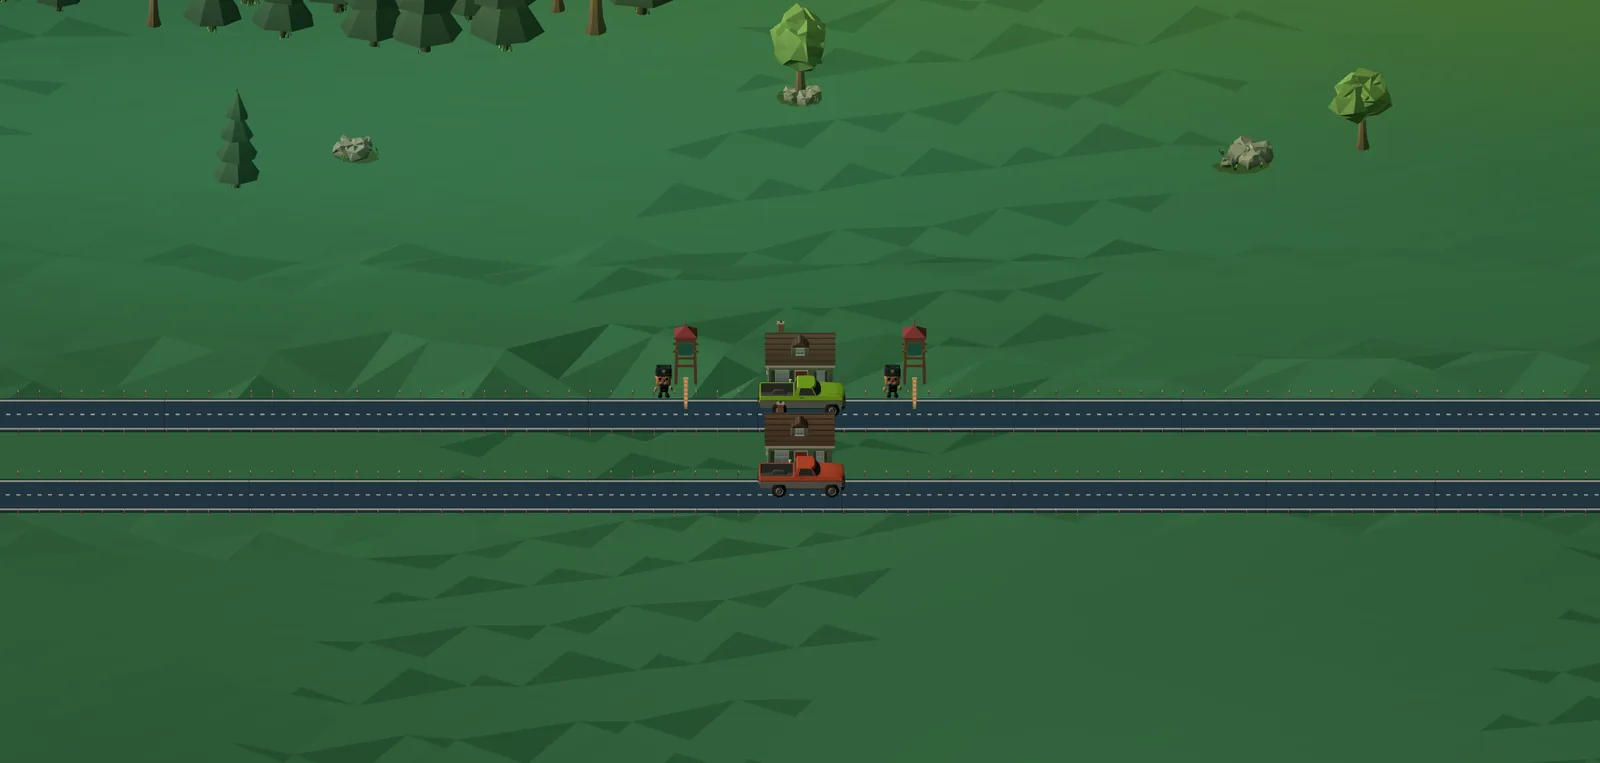
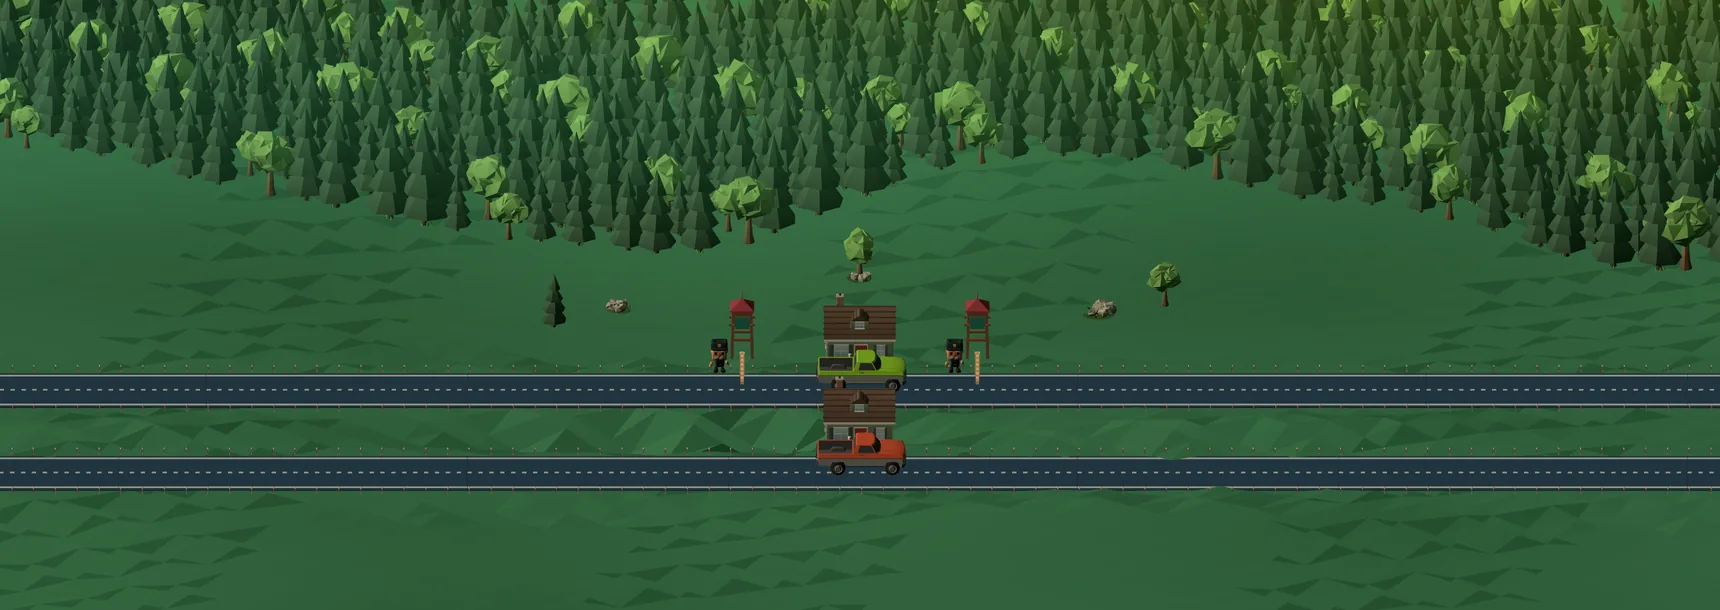
fix(website): keep hero scene framing fixed across widths
Extend the road and forest horizontally without scaling their vertical composition; refresh the static desktop poster. Add a brief visual-only burst when the unsafe return bomb reaches the house.

diff --git a/website/src/lib/hero-scene/scene.ts b/website/src/lib/hero-scene/scene.ts
@@ -99,7 +99,7 @@ function addScenery(scene: THREE.Scene, models: { rock: THREE.Object3D; spruce: 
 
   // A dense band along the far edge fills the top of the hero like a forest backdrop.
   for (let row = 0; row < 12; row++) {
-    for (let column = 0; column < 43; column++) {
+    for (let column = -22; column < 65; column++) {
       const seed = row * 37 + column * 19;
       const across = (column - 21) * 1.82 + (row % 2) * .91 + Math.sin(seed * 2.1) * .32;
       const forestEdge = 29 + Math.sin(across * .13) * 4 + Math.sin(across * .27) * 1.25;
@@ -214,6 +214,7 @@ type Lane = {
   privateBox: THREE.Group;
   bomb: THREE.Group;
   bombSparks: THREE.Group;
+  explosion?: THREE.Group;
   checkpoints: Checkpoint[];
   exclamation?: THREE.Group;
 };
@@ -234,7 +235,7 @@ function placeCargo(object: THREE.Group, truck: THREE.Group, root: THREE.Group, 
   const onTruck = where === "truck";
   const parent = onTruck ? truck : root;
   if (object.parent !== parent) parent.add(object);
-  object.visible = where !== "outside" && where !== "hidden" && where !== "booth";
+  object.visible = where !== "outside" && where !== "hidden" && where !== "booth" && where !== "exploding";
   if (onTruck) object.position.set(x, BED_Y + height, -.9);
   if (where === "warehouse") object.position.set(-2.8 + x, height, HOUSE_Z);
 }
@@ -306,6 +307,19 @@ function buildLane(scene: THREE.Scene, position: THREE.Vector3, protectedRoute: 
       lane.checkpoints.push({ z, barrier, guard, mixer, duration: Math.max(idle?.duration ?? 0, walk?.duration ?? 0, 3), idle: idleAction, walk: walkAction });
     }
   } else {
+    const explosion = new THREE.Group();
+    explosion.position.set(-3.2, .9, HOUSE_Z + 2.3);
+    root.add(explosion);
+    explosion.add(new THREE.Mesh(new THREE.IcosahedronGeometry(.5, 0), new THREE.MeshBasicMaterial({ color: 0xffea81, transparent: true })));
+    explosion.add(new THREE.Mesh(new THREE.TorusGeometry(.7, .06, 3, 12), new THREE.MeshBasicMaterial({ color: 0xff9a42, transparent: true })));
+    for (let i = 0; i < 12; i++) {
+      explosion.add(new THREE.Mesh(
+        new THREE.OctahedronGeometry(.12 + (i % 3) * .03),
+        new THREE.MeshBasicMaterial({ color: i % 3 === 0 ? 0xff7445 : 0xffd358, transparent: true }),
+      ));
+    }
+    explosion.visible = false;
+    lane.explosion = explosion;
     const exclamation = new THREE.Group();
     root.add(exclamation); exclamation.position.set(-1.68, .6, -7);
     exclamation.rotation.y = Math.PI / 2;
@@ -330,10 +344,8 @@ export async function createHeroScene(canvas: HTMLCanvasElement, logoUrl: string
   loader.setDRACOLoader(draco);
   const [road, sedan, house, officer, box, specialBox, bomb, tower, rock, spruce, oak] = await Promise.all([loader.loadAsync(roadUrl), loader.loadAsync(carUrl), loader.loadAsync(houseUrl), loader.loadAsync(officerUrl), loader.loadAsync(boxUrl), loader.loadAsync(specialBoxUrl), loader.loadAsync(bombUrl), loader.loadAsync(towerUrl), loader.loadAsync(sceneryUrls.rock), loader.loadAsync(sceneryUrls.spruce), loader.loadAsync(sceneryUrls.oak)]);
   draco.dispose();
-  const backdrop = new THREE.Group();
-  scene.add(backdrop);
-  addFacetedGround(backdrop);
-  addScenery(backdrop, { rock: rock.scene, spruce: spruce.scene, oak: oak.scene });
+  addFacetedGround(scene);
+  addScenery(scene, { rock: rock.scene, spruce: spruce.scene, oak: oak.scene });
   const unsafe = buildLane(scene, new THREE.Vector3(ROAD_CENTERS[0][0], 0, ROAD_CENTERS[0][1]), false, logoUrl, road.scene, sedan.scene, house.scene, officer.scene, officer.animations, box.scene, specialBox.scene, bomb.scene, tower.scene);
   const safe = buildLane(scene, new THREE.Vector3(ROAD_CENTERS[1][0], 0, ROAD_CENTERS[1][1]), true, logoUrl, road.scene, sedan.scene, house.scene, officer.scene, officer.animations, box.scene, specialBox.scene, bomb.scene, tower.scene);
   const labels = {
@@ -400,6 +412,25 @@ export async function createHeroScene(canvas: HTMLCanvasElement, logoUrl: string
       spark.position.set(Math.sin(phase) * .12, .43 + i * .047 + Math.cos(phase * 1.3) * .045, Math.cos(phase) * .1);
       spark.scale.setScalar(.75 + .25 * Math.sin(phase * 1.7));
     });
+    if (lane.explosion) {
+      const progress = THREE.MathUtils.clamp((elapsed % 20 - 16.8), 0, 1);
+      lane.explosion.visible = state.bomb === "exploding";
+      lane.explosion.children.forEach((piece, i) => {
+        const material = (piece as THREE.Mesh).material as THREE.MeshBasicMaterial;
+        material.opacity = (1 - progress) ** 2;
+        if (i === 0) {
+          piece.scale.setScalar(.3 + progress * 1.4);
+        } else if (i === 1) {
+          piece.scale.setScalar(.2 + progress * 1.8);
+        } else {
+          const angle = i * 2.39996;
+          const distance = progress * (1.8 + (i % 4) * .2);
+          piece.position.set(Math.cos(angle) * distance, Math.sin(angle * 2) * distance * .55 + progress * .6, Math.sin(angle) * distance);
+          piece.rotation.set(progress * i, progress * i * .7, progress * i * .4);
+          piece.scale.setScalar(1 - progress * .7);
+        }
+      });
+    }
     for (const checkpoint of lane.checkpoints) {
       const active = state.inbound === (checkpoint.z > 0);
       const progress = active ? state.guardReach : 0;
@@ -482,36 +513,20 @@ export async function createHeroScene(canvas: HTMLCanvasElement, logoUrl: string
     } else {
       renderer.setViewport(0, 0, width, height);
       const aspect = width / height;
-      const wide = THREE.MathUtils.smoothstep(aspect, 1.3, 2.3);
-      // Keep the forest framing fixed while placing the roads below the copy.
-      unsafe.root.visible = safe.root.visible = false;
-      camera.left = -Math.max(29, 19 * aspect) / 2;
-      camera.right = -camera.left;
-      camera.top = camera.right / aspect; camera.bottom = -camera.top;
-      camera.position.set(16 + ROAD_SHIFT.x * wide, 23 - 8.8 * wide, 27 + ROAD_SHIFT.y * wide);
-      camera.lookAt(ROAD_SHIFT.x * wide, 8.5 - 8.8 * wide, ROAD_SHIFT.y * wide);
-      camera.updateProjectionMatrix();
-      renderer.render(scene, camera);
-      backdrop.visible = false;
-      unsafe.root.visible = safe.root.visible = true;
-      // Give both roads room below the hero copy on wide screens.
-      const verticalSpan = Math.max(29 / aspect, THREE.MathUtils.lerp(19, 38, wide));
+      // Keep the scene's vertical framing constant; width only reveals more terrain.
+      const verticalSpan = 28;
       const span = verticalSpan * aspect;
       camera.left = -span / 2; camera.right = span / 2;
       camera.top = verticalSpan / 2; camera.bottom = -camera.top;
-      camera.position.set(16 + ROAD_SHIFT.x * wide, 23 - 4.5 * wide, 27 + ROAD_SHIFT.y * wide);
-      camera.lookAt(ROAD_SHIFT.x * wide, 8.5 - 4.5 * wide, ROAD_SHIFT.y * wide);
+      camera.position.set(16, 23, 27);
+      camera.lookAt(0, 8.5, 0);
       unsafe.root.rotation.y = safe.root.rotation.y = ROAD_ANGLE;
       camera.updateProjectionMatrix();
       pose(unsafe, elapsed, false, getViewportExit(unsafe));
       pose(safe, elapsed, true, getViewportExit(safe));
       placeHouseLabel(unsafe, labels.unsafe, 0, height);
       placeHouseLabel(safe, labels.safe, 0, height);
-      renderer.autoClear = false;
-      renderer.clearDepth();
       renderer.render(scene, camera);
-      renderer.autoClear = true;
-      backdrop.visible = true;
     }
   }
 

diff --git a/website/src/lib/hero-scene/timeline.test.ts b/website/src/lib/hero-scene/timeline.test.ts
@@ -13,12 +13,12 @@ test("identical outbound loads diverge only at checkpoint", () => {
   assert.equal(routeAt(8, false).privateBox, "outside");
 });
 
-test("inbound bomb reaches only the unprotected warehouse", () => {
+test("the inbound bomb bursts only beside the unprotected house", () => {
   assert.equal(routeAt(12, false).bomb, "truck");
   assert.equal(routeAt(12, true).bomb, "truck");
   assert.equal(routeAt(15, true).bomb, "handoff");
   assert.equal(routeAt(17, true).bomb, "booth");
-  assert.equal(routeAt(17, false).bomb, "warehouse");
+  assert.equal(routeAt(17, false).bomb, "exploding");
   assert.equal(routeAt(17, true).privateBox, "booth");
 });
 
@@ -39,6 +39,7 @@ test("the protected lane never delivers restricted cargo or the return bomb", ()
     const directState = routeAt(t, false);
     assert.notEqual(protectedState.privateBox, "outside");
     assert.notEqual(protectedState.bomb, "warehouse");
+    assert.notEqual(protectedState.bomb, "exploding");
     assert.notEqual(directState.privateBox, "booth");
     assert.notEqual(directState.bomb, "booth");
     assert.equal(directState.guardReach, 0);
@@ -62,8 +63,10 @@ test("each transition has a visible dwell before the next trip", () => {
   assert.equal(routeAt(13.59, true).bomb, "truck");
   assert.equal(routeAt(14.0, true).bomb, "handoff");
   assert.equal(routeAt(15.5, true).bomb, "booth");
-  assert.equal(routeAt(16.8, false).bomb, "warehouse");
-  assert.equal(routeAt(19.99, false).bomb, "warehouse");
+  assert.equal(routeAt(16.8, false).bomb, "exploding");
+  assert.equal(routeAt(17.79, false).bomb, "exploding");
+  assert.equal(routeAt(17.8, false).bomb, "hidden");
+  assert.equal(routeAt(19.99, false).bomb, "hidden");
 });
 
 test("both trips move left to right and use opposite viewport edges", () => {

diff --git a/website/src/lib/hero-scene/timeline.ts b/website/src/lib/hero-scene/timeline.ts
@@ -15,7 +15,7 @@ export type RouteState = {
   inbound: boolean;
   ordinary: number;
   privateBox: CargoLocation;
-  bomb: CargoLocation | "hidden";
+  bomb: CargoLocation | "hidden" | "exploding";
   barrierRaised: boolean;
   guardReach: number;
   guardWalking: boolean;
@@ -82,7 +82,7 @@ export function routeAt(elapsed: number, protectedRoute: boolean, exitZ = 20): R
       }
       state.bomb = t < 14 ? "truck" : t < 15.5 ? "handoff" : "booth";
     }
-    if (!protectedRoute && t >= 16.8) state.bomb = "warehouse";
+    if (!protectedRoute && t >= 16.8) state.bomb = t < 17.8 ? "exploding" : "hidden";
   }
   return state;
 }
